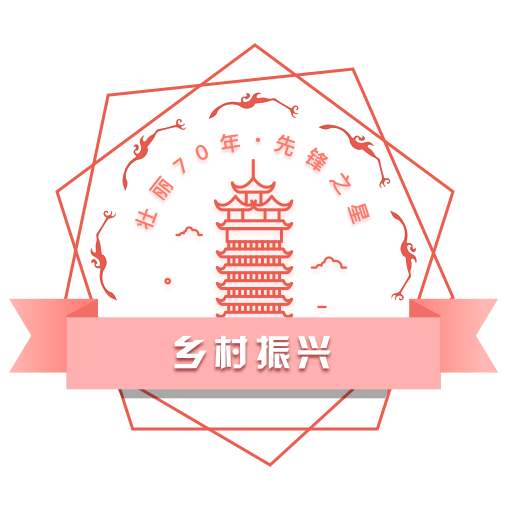
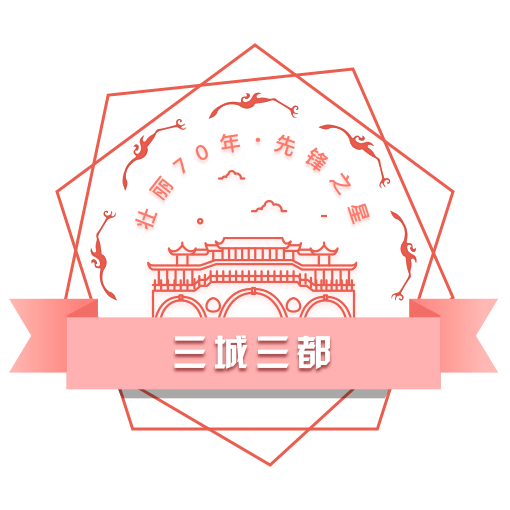
:lipstick: 继续修改静态资源

Changed region(s): [[0.2941, 0.2941, 0.7059, 0.6471], [0.3235, 0.6471, 0.6471, 0.7353]]

diff --git a/asset/medalDetailList.js b/asset/medalDetailList.js
@@ -3,113 +3,86 @@ import { IMG_LIST } from "../asset/imgList.js"
 const medalDetailList = [
     {
         img: IMG_LIST.medal1,
-        title: '“天府绿道”',
+        title: '天府绿道',
         descreption: [
             '您已完成100000步数',
+            '恭喜获得“壮丽70年·先锋之星”！',
             '',
-            '恭喜获得“壮丽70年·先锋之星”之“天府绿道”！',
-            '',
-            '成都响应习近平总书记在四川视察期间提出的“突出公园城市特点，把生态价值考虑进去”，建设更“全面体现新发展理念的城市”。成都将“天府绿道”作为建设公园城市的重要抓手，正在打造的全球最长的绿道慢行系统，这是成都向世界递上的一张城市“生态名片”。',
-            '这几年，成都大力践行“绿水青山就是金山银山”理念，高起点规划建设天府绿道，实现生态保障、慢行交通、休闲旅游、城乡融合、文化创意、体育运动、农业景观、应急避难等多种功能。梳理市域范围的11534平方公里生态基底和2800平方公里城乡建设用地情况，全域规划区域级、城区级、社区级三级绿道，计划在2035年建成总长16930公里的天府绿道体系。',
-            '截至2018年，天府绿道累计建成2607公里，通过绿道体系串联了1113.79平方公里的五级绿化体系。一个串联生态景观资源、公共服务设施及交通枢纽的绿道网络，正在成都全域铺展开来，逐渐形成。',
-            '绿道，正在成为成都最优质的生态资源，厚植成都的绿色本底，成为成都生态优先、绿色发展，建设美丽宜居公园城市的城市实践。在未来，基于绿道提供的经济空间，大力发展体育赛事、音乐、游乐、民宿、健身、康养、会议等特色产业，并带动周边区域文创、科创、文旅、金融等特色高端现代产业服务，都将成为成都绿色经济的新增长点。',
-            '期待未来成都创造出一个在绿色环境里诗意栖居的生活场景，我们尽自己一份力量，构筑起绿色发展方式和生活方式，让生活更具幸福感！'
+            '小知识',
+            '截至2018年，天府绿道累计建成2607公里，串联了1113.79平方公里的五级绿化体系。实现生态保障、慢行交通、休闲旅游、城乡融合、文化创意、体育运动、农业景观、应急避难等多种功能。“天府绿道”，正是成都贯彻落实习近平总书记“突出公园城市特点，把生态价值考虑进去”重要指示，作为建设公园城市的重要抓手，正在打造的全球最长的绿道慢行系统，这也是成都向世界递上的一张城市“生态名片”。',
         ],
     },
     {
         img: IMG_LIST.medal2,
-        title: '“公园城市”',
+        title: '公园城市',
         descreption: [
             '您已完成200000步数',
+            '恭喜获得“壮丽70年·先锋之星”！',
             '',
-            '恭喜获得“壮丽70年·先锋之星”之“公园城市”！',
-            '',
-            '2018年2月11日，习近平总书记在四川成都天府新区考察时，首次提出了建设公园城市的理念，特别指出“要突出公园城市特点，把生态价值考虑进去”。',
-            '一年多过去了，成都以覆盖全域的天府绿道作为重要支撑体系，串联起成都境内的生态区、公园、小游园、微绿地，将整个成都变为一座巨大的“公园”，将生态价值转化为了生活品质。',
-            '公园城市作为全面体现新发展理念的城市建设新模式，在世界城市规划建设史上具有开创性意义。世界上有花园城市，也有森林城市，成都希望用实践诠释一种新理念、新模式——公园城市。',
-            '成都市提出，公园城市是将公园形态与城市空间有机融合，生产生活生态空间相宜、自然经济社会人文相融的复合系统，是人、城、境、业高度和谐统一的现代化城市，是新时代可持续发展城市建设的新模式。',
-            '根据规划，2025年，成都将加快建设美丽宜居公园城市，公园城市特点初步显现；2035年，基本建成美丽宜居公园城市；2050年，全面建成美丽宜居公园城市，全方位形成高度和谐统一的大美城市形态。',
-            '期待成都成为美丽宜居公园城市！愿我们都能尽自己努力出一份力量~'
-        ]
-    },
-    {
-        img: IMG_LIST.medal5,
-        title: '“乡村振兴”',
-        descreption: [
-            '您已完成500000步数',
-            '',
-            '恭喜获得“壮丽70年·先锋之星”之“乡村振兴”！',
-            '',
-            '实施乡村振兴战略是十九大作出的重大战略部署，是党中央根据新时代社会主要矛盾变化、“两个一百年”奋斗目标和社会主义共同富裕本质要求明确的“三农”工作总抓手，具有明显的自上向下推动的特征。',
-            '2018年春节前夕，习近平总书记在深入成都一些乡村视察时，对其推进乡村振兴的做法给予充分肯定，要求成都扎扎实实把乡村振兴战略实施好，继续走在全国前列，发挥示范作用。',
-            '成都市坚持以党的十九大精神和习近平新时代中国特色社会主义思想为统领，牢记党中央和总书记“走在前列，作出示范”的嘱托，以五大振兴为抓手，深化农业农村改革、遵循绿色发展理念、构建现代产业体系，着力推进乡村振兴“十大重点工程”和“五项重点改革”，力求在乡村振兴的伟大实践中交出一张优异答卷。',
-            '今后，成都将加快构建现代产业体系、提升农业品牌建设、推动农业双向开放等系列举措；引进农业科技高端人才，吸引一批“两院”院士、国家或省级“千人计划”及成都“蓉漂计划”专家来蓉建基地建工作室；加快建设国家现代农业产业科技创新中心，积极创建国家级农业高新技术产业开发区；建设乡村休闲旅游带和“三环七带”天府绿道骑游带；打造休闲旅游群，塑造“中国川西林盘聚落”“天府古镇文化”“成都平原四季田园风光”等旅游特色品牌……',
-            '期待成都迅速展开这一幅产业兴旺、生态宜居、乡风文明、治理有效、生活富裕的现代农业农村画卷~'
-        ]
-    },
-    {
-        img: IMG_LIST.medal4,
-        title: '“天府文化”',
-        descreption: [
-            '您已完成400000步数',
-            '',
-            '恭喜获得“壮丽70年·先锋之星”之“天府文化”',
-            '',
-            '文化，是一座城市的独特印记，更是一座城市的根与魂。',
-            '在人类浩如烟海的城市文明发展史中，成都以其两千多年来“城名未改、城址未变、中心未移”而与众不同。成都之所以能在世界城市发展史上独树一帜，天府文化起到了“灵魂性”的稳定性作用。',
-            '市第十三次党代会首次提出发展“创新创造、优雅时尚、乐观包容、友善公益”的天府文化，让天府文化成为彰显成都魅力的一面旗帜。',
-            '“创新创造”是中华民族崛起的精神基因，也是天府之国革故鼎新、善谋图变的文化基因。',
-            '“优雅时尚”是现代成都人的生活美学，也是当代社会的生活追求。',
-            '“乐观包容”是成都自古以来海纳百川、有容乃大的文化气度。',
-            '“友善公益”是天府文化的文化温度。',
-            '成都孕育出创新创造、优雅时尚、乐观包容、友善公益的天府文化，成为成都古今保持充沛活力和优越个性的力量源泉。',
-            '当前，成都正大力推动天府文化创造性转化、创新性发展，让天府文化彰显成都独特城市魅力，我们自当不懈努力传承巴蜀文明、发展天府文化。'
+            '小知识',
+            '成都市委十三届三次全会提出：到2020年，加快建设美丽宜居公园城市，公园城市特点初步显现；到2035年，基本建成美丽宜居公园城市，开创生态文明引领城市发展的新模式；到本世纪中叶，全面建成美丽宜居公园城市。',
+            '建设美丽宜居公园城市，正是成都全面贯彻落实习近平总书记的深切嘱托重大举措。成都正以覆盖全域的天府绿道作为重要支撑体系，串联起成都境内的生态区、公园、小游园、微绿地，将整个成都变为一座巨大的“公园”。',
         ]
     },
     {
         img: IMG_LIST.medal3,
-        title: '“三城三都”',
+        title: '乡村振兴',
         descreption: [
-            '您已完300000步数',
+            '您已完成300000步数',
+            '恭喜获得“壮丽70年·先锋之星”！',
             '',
-            '恭喜获得“壮丽70年·先锋之星”之“三城三都”！',
+            '小知识',
+            '2018年春节前夕，习近平总书记在深入成都一些乡村视察时，要求成都扎扎实实把乡村振兴战略实施好，继续走在全国前列，发挥示范作用。',
+            '成都市牢记党中央和总书记“走在前列，作出示范”的嘱托，以五大振兴为抓手，深化农业农村改革、遵循绿色发展理念、构建现代产业体系，着力推进乡村振兴“十大重点工程”和“五项重点改革” 。成都将迅速展开这一幅产业兴旺、生态宜居、乡风文明、治理有效、生活富裕的现代农业农村画卷。',
+        ]
+    },
+    {
+        img: IMG_LIST.medal4,
+        title: '天府文化',
+        descreption: [
+            '您已完成400000步数',
+            '恭喜获得“壮丽70年·先锋之星”！',
             '',
-            '每一座世界文化名城，在不同的历史时期，都有其时代表达。“三城三都”便是成都建设世界文化名城的时代表达。',
+            '小知识',
+            '在人类浩如烟海的城市文明发展史中，成都以其两千多年来“城名未改、城址未变、中心未移”而与众不同。成都之所以能在世界城市发展史上独树一帜，天府文化起到了“灵魂性”的稳定性作用，成为成都古今保持充沛活力和优越个性的力量源泉。',
+            '成都市第十三次党代会提出发展“创新创造、优雅时尚、乐观包容、友善公益”的天府文化，让天府文化成为彰显成都魅力的一面旗帜。我们自当为传承巴蜀文明、发展天府文化，建设世界文化名城不懈努力。',
+        ]
+    },
+    {
+        img: IMG_LIST.medal5,
+        title: '三城三都',
+        descreption: [
+            '您已完500000步数',
+            '',
+            '恭喜获得“壮丽70年·先锋之星”！',
+            '',
+            '小知识',
             '2019年1月，成都市委十三届四次全会审议通过《中共成都市委关于弘扬中华文明发展天府文化加快建设世界文化名城的决定》，明确提出将围绕“三城三都”来打造国际新标识，以此推动世界文化名城建设。',
-            '2月14日，成都市正式公布要高水平建设世界文创名城、高起点建设世界旅游名城、高标准建设世界赛事名城、高品味建设国际美食之都、高品质建设国际音乐之都、高质量建设国际会展之都的六个三年行动计划（2018-2020年），明确了成都将如何建设“三城三都”以及“三城三都”的发展目标和实施路径。',
-            '根据规划，到2020年，“三城三都”品牌行业价值凸现，建成具有区域影响力的世界文化名城；到2035年，“三城三都”闻名于世，建成世界新兴的文化名城；到本世纪中叶，天府文化享誉全球，建成独具人文魅力的世界文化名城。',
-            '“三城三都”，是成都建设世界文化名城的一个阶段性目标，也是满足人民美好生活需要的载体，让我们一同期待并为之付出努力。'
+            '高水平建设世界文创名城、高起点建设世界旅游名城、高标准建设世界赛事名城、高品味建设国际美食之都、高品质建设国际音乐之都、高质量建设国际会展之都，成都已明确了建设“三城三都”发展目标和实施路径。',
         ]
     },
     {
         img: IMG_LIST.medal6,
-        title: '“新发展理念城市”',
+        title: '新发展理念城市',
         descreption: [
             '您已完成600000步数',
+            '恭喜获得“壮丽70年·先锋之星”！',
             '',
-            '恭喜获得“壮丽70年·先锋之星”之“新发展理念城市”！',
-            '',
-            '新发展理念是习近平总书记在党的十八届五中全会上首次提出来的，他指出：“实现‘十三五’时期发展目标，破解发展难题，厚植发展优势，必须牢固树立创新、协调、绿色、开放、共享的发展理念。”',
-            '2018年2月，习近平总书记视察四川时，以宽广视野、深刻洞察和战略远见为成都把脉定向，深切期许成都加快建设全面体现新发展理念的城市。纵观中国，成都是第一个得到习近平总书记首肯并明确提出支持成都建设全面体现新发展理念的城市。',
-            '一年来，成都以“全面落实年”为抓手，奋力推进国家中心城市、美丽宜居公园城市、国际门户枢纽城市、世界文化名城建设，向新时代成都“三步走”战略目标迈出了坚实步伐。在GaWC发布的世界城市排名中，成都跃升29位至全球71位，连续10年荣登“中国最具幸福感城市”榜首。',
-            '按照四川省委“六个牢牢把握”要求，深刻把握伟大复兴引领城市崛起的时代机遇，把新发展理念贯穿城市规划建设管理和改革发展的各方面全过程，着力推动高质量发展，加快建设全面体现新发展理念的城市，奋力实现新时代成都“三步走”战略目标。',
-            '期待成都建设成为一个有“高颜值”“生活味”“国际范”和“归属感”的城市~'
+            '小知识',
+            '2018年2月，习近平总书记视察四川时，以宽广视野、深刻洞察和战略远见为成都把脉定向，深切期许成都加快建设全面体现新发展理念的城市。',
+            '奋力推进国家中心城市、美丽宜居公园城市、国际门户枢纽城市、世界文化名城建设，成都全面贯彻落实新发展理念，向新时代成都“三步走”战略目标迈出了坚实步伐。期待成都建设成为一个有“高颜值”“生活味”“国际范”和“归属感”的城市。',
         ]
     },
     {
         img: IMG_LIST.medal7,
-        title: '“奋斗新时代”',
+        title: '奋斗新时代',
         descreption: [
             '您已完成700000步数',
+            '恭喜获得“壮丽70年·先锋之星”！',
             '',
-            '恭喜获得“壮丽70年·先锋之星”之“奋斗新时代”！',
-            '',
-            '成都已奏响新时代城市复兴的号角！站在新中国成立70周年的历史交接处，一个大城崛起、城市复兴的“成都梦”，正如春潮磅礴漫卷。',
-            '近年来，成都沿着习近平总书记指引的方向砥砺奋进、坚定前行，在新发展理念下凝聚社会共识、引领城市方向、塑造时代价值、培育战略优势，努力用民族复兴之光照亮城市前行之路，用新思想塑造城市发展之魂。',
-            '新时代，成都发展最大的战略机遇就是中华民族伟大复兴引领中国城市在世界崛起，最大的时代风口就是全球科技创新改变世界格局，最大的外部变量就是“一带一路”和西部开发开放引领成都由内陆腹地跃升为开放前沿，最大的信心底气就来自于“一干多支”四川新发展战略赋予成都舞好全川发展龙头的时代机遇。',
-            '一个时代有一个时代的主题，一代人有一代人的使命。成都天府之国的巴适安逸不是与生俱来的，而是先辈们披荆斩棘以启山林、治水营城造福后人创造而来的。前人栽树，后人乘凉，新时代成都大城崛起，又将为后人留下如何的营城遗产？这是新时代成都必须回答的问题，这个问题的答案，直接体现成都广大党员干部的苦乐观，也将直接影响成都“走向世界”的夯基垒土。',
-            '不驰于空想，不鹜于虚声。城市梦，始终要靠奋斗来实现。只有以每一个成都人的日常尺寸之功，才能成就大城崛起、城市复兴的百年之计。',
-            '新时代，让我们一起奋斗吧！'
+            '小知识',
+            '成都已奏响新时代城市复兴的号角！成都发展最大的战略机遇就是中华民族伟大复兴引领中国城市在世界崛起，最大的时代风口就是全球科技创新改变世界格局，最大的外部变量就是“一带一路”和西部开发开放引领成都由内陆腹地跃升为开放前沿，最大的信心底气就来自于“一干多支”四川新发展战略赋予成都舞好全川发展龙头的时代机遇。',
+            '一个时代有一个时代的主题，一代人有一代人的使命。城市梦，始终要靠奋斗来实现。新时代，让我们一起奋斗吧！',
         ]
     },
 ]

diff --git a/asset/medalList.js b/asset/medalList.js
@@ -13,8 +13,8 @@ const medalList = [
     lock: true,
   },
   {
-    url: IMG_LIST.medal5,
-    lockUrl: IMG_LIST.medalLock5,
+    url: IMG_LIST.medal3,
+    lockUrl: IMG_LIST.medalLock3,
     name: '乡村振兴',
     lock: true,
   },
@@ -25,8 +25,8 @@ const medalList = [
     lock: true,
   },
   {
-    url: IMG_LIST.medal3,
-    lockUrl: IMG_LIST.medalLock3,
+    url: IMG_LIST.medal5,
+    lockUrl: IMG_LIST.medalLock5,
     name: '三城三都',
     lock: true,
   },
